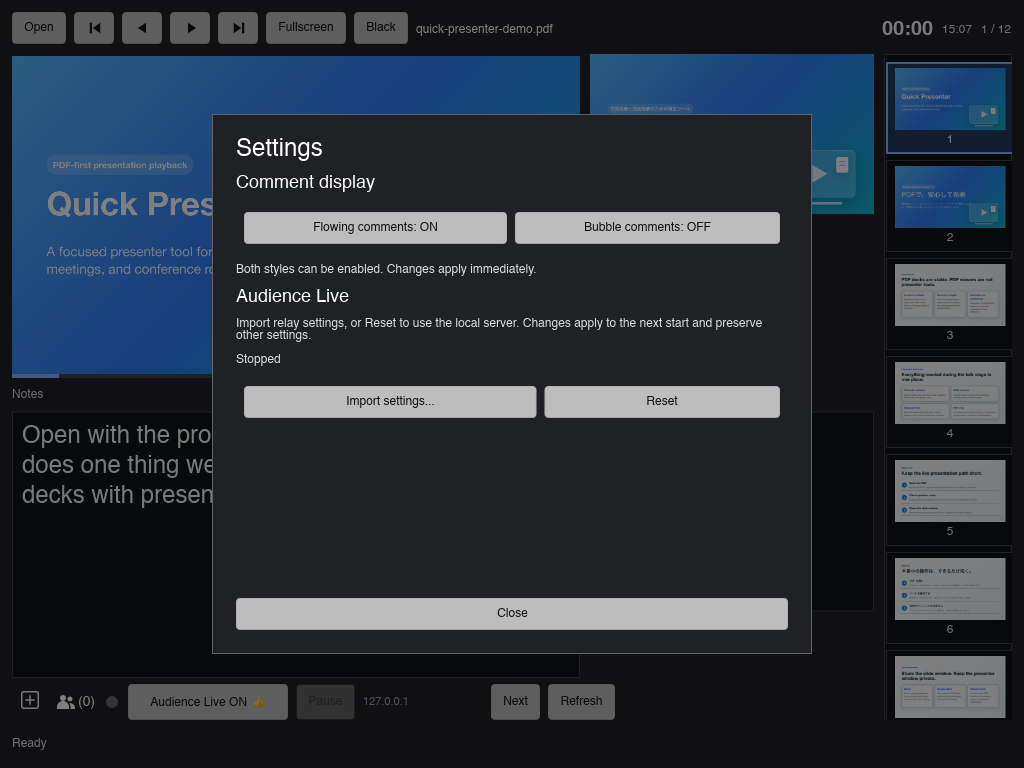
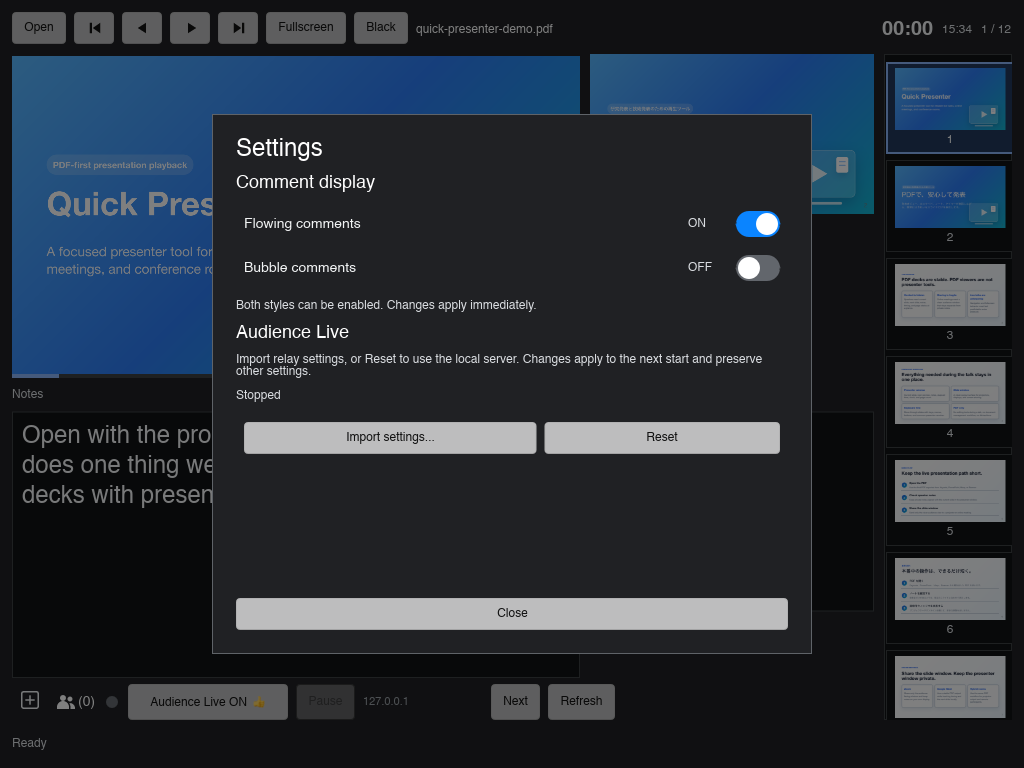
Use accessible toggle switches for comment display settings

Changed region(s): [[0.2188, 0.25, 0.7812, 0.5938]]

diff --git a/src/gui_smoke.rs b/src/gui_smoke.rs
@@ -1874,6 +1874,37 @@ async fn check_settings_dialog(
         "settings opened without starting an audience session",
         "settings did not open independently",
     );
+    for (flowing, bubbles, stage) in [
+        (true, true, "both-on"),
+        (false, true, "bubbles-only"),
+        (false, false, "both-off"),
+        (true, false, "flow-only"),
+    ] {
+        presenter.invoke_audience_set_comment_display(flowing, bubbles);
+        delay(Duration::from_millis(180)).await;
+        report.check(
+            format!("Settings switches reflect {stage}"),
+            presenter.get_audience_flowing_enabled() == flowing
+                && presenter.get_audience_bubbles_enabled() == bubbles,
+            "independent display preferences applied",
+            "display preferences did not match the requested combination",
+        );
+        if let Some(path) = std::env::var_os("QP_GUI_SMOKE_SETTINGS_SNAPSHOT") {
+            let path = std::path::PathBuf::from(path);
+            let stem = path
+                .file_stem()
+                .and_then(|s| s.to_str())
+                .unwrap_or("settings");
+            let snapshot = presenter.window().take_snapshot()?;
+            let mut bytes =
+                format!("P6\n{} {}\n255\n", snapshot.width(), snapshot.height()).into_bytes();
+            for pixel in snapshot.as_bytes().chunks_exact(4) {
+                bytes.extend_from_slice(&pixel[..3]);
+            }
+            fs::write(path.with_file_name(format!("{stem}-{stage}.ppm")), bytes)
+                .context("failed to save switch state snapshot")?;
+        }
+    }
     for text in [" ", "\n"] {
         presenter
             .window()

diff --git a/docs/validation/V300_COMMENT_BUBBLES_20261025.md b/docs/validation/V300_COMMENT_BUBBLES_20261025.md
@@ -92,6 +92,34 @@ run, without compositing or modifying their content:
 
 ![Settings](../assets/comment-bubbles/settings.png)
 
+## Independent toggle switch revision
+
+The two ordinary buttons are replaced with macOS-style independent switches.
+ON uses a blue track and a right-positioned white thumb; OFF uses a gray track
+and a left-positioned thumb. Explicit ON/OFF text complements the visual state.
+Each control exposes the switch role, checked state, accessible label, and a
+visible keyboard focus ring. Rust remains the source of truth, including when
+saving settings fails.
+
+The signed app passes **121 focused GUI checks, zero failures**, including all
+four preference combinations. Formatting, `cargo check`, `cargo build --bins`,
+and complete `cargo test` pass (622 passed, two existing ignored tests).
+Native manual checks confirm mouse clicks, accessibility activation, Space,
+and Return toggle the focused switch without navigating the PDF. The
+accessibility tree reports both controls as switches with matching ON/OFF
+values, and the saved TOML matches the final UI state.
+
+| Flowing | Bubbles | Actual Settings snapshot |
+| --- | --- | --- |
+| ON | ON | [Both ON](../assets/comment-bubbles/settings-both-on.png) |
+| OFF | ON | [Bubbles only](../assets/comment-bubbles/settings-bubbles-only.png) |
+| OFF | OFF | [Both OFF](../assets/comment-bubbles/settings-both-off.png) |
+| ON | OFF | [Flowing only](../assets/comment-bubbles/settings.png) |
+
+![Both styles ON](../assets/comment-bubbles/settings-both-on.png)
+
+![Both styles OFF](../assets/comment-bubbles/settings-both-off.png)
+
 Temporary bundles and raw reports remain under `/tmp/quick-presenter-bubbles*`.
 This is not Windows/Linux runtime, physical mobile-client, Store, notarized
 release, or full cross-platform qualification.

diff --git a/docs/AUDIENCE_COMMENTS.md b/docs/AUDIENCE_COMMENTS.md
@@ -16,7 +16,8 @@ retaining rotated log files. Display preferences survive session restarts.
 ## Comment display settings (v3.0.0)
 
 Open **Settings > Comment display** to toggle **Flowing comments** and
-**Bubble comments** independently. Both may be ON together, or OFF together;
+**Bubble comments** independently. Each uses a switch with a blue/right ON state,
+a gray/left OFF state, and an explicit ON/OFF label. Both may be ON together, or OFF together;
 reception, presenter history, and logs continue with both OFF. Settings apply
 immediately and persist in the existing configuration file:
 
